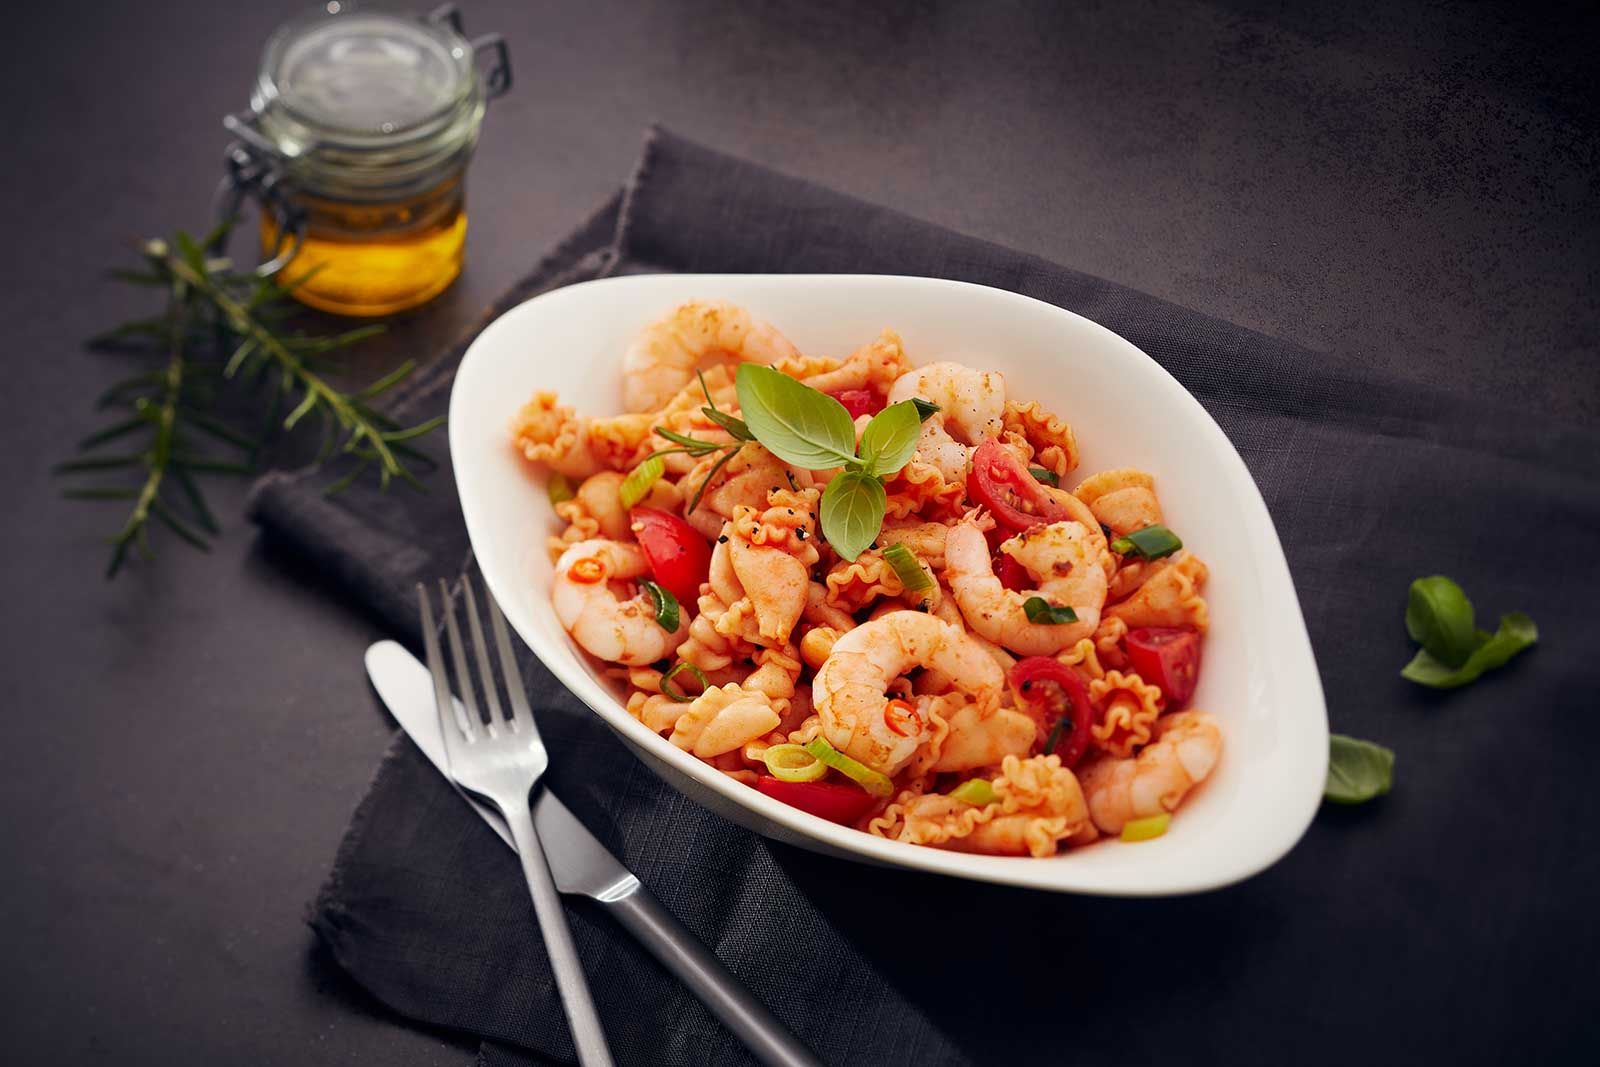
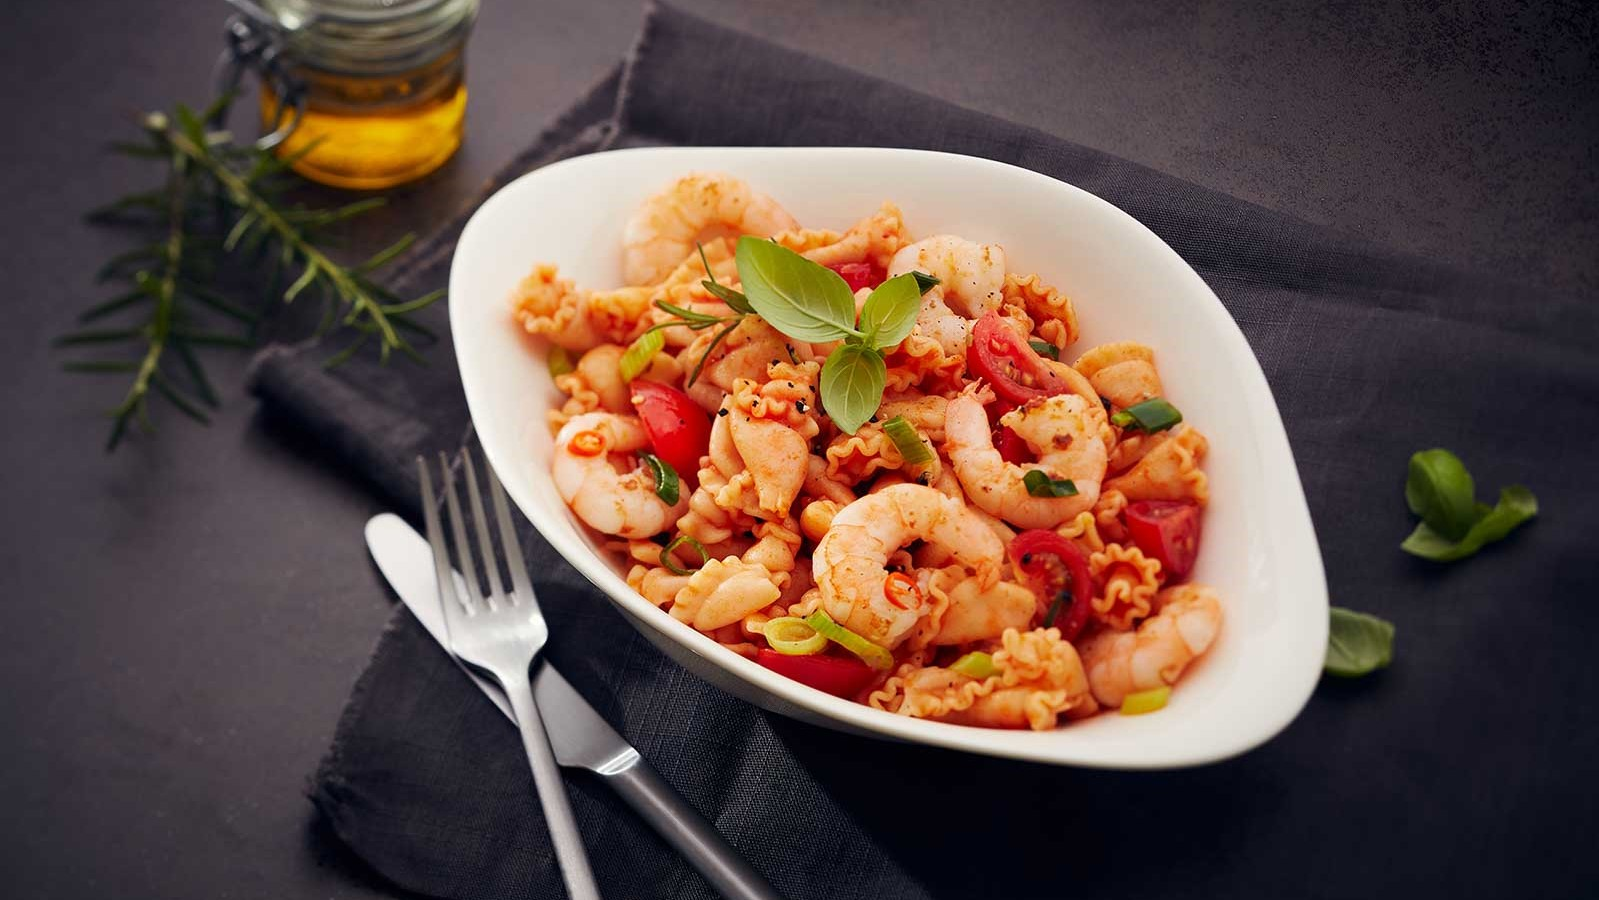
karussell lisatud

diff --git a/index.html b/index.html
@@ -3,10 +3,12 @@
     <head>
         <meta charset="utf-8">
         <meta name="viewport" content="width=device-width, initial-scale=1">
-        <link href="https://cdnjs.cloudflare.com/ajax/libs/font-awesome/6.0.0/css/all.min.css" rel="stylesheet"/>
+        <link href="https://cdnjs.cloudflare.com/ajax/libs/font-awesome/6.0.0/css/all.min.css" rel="stylesheet"/> 
         <link href="https://cdn.jsdelivr.net/npm/bootstrap@5.1.3/dist/css/bootstrap.min.css" rel="stylesheet" integrity="sha384-1BmE4kWBq78iYhFldvKuhfTAU6auU8tT94WrHftjDbrCEXSU1oBoqyl2QvZ6jIW3" crossorigin="anonymous">
+        <link rel="stylesheet" href="style.css">
         <script src="https://cdn.jsdelivr.net/npm/bootstrap@5.1.3/dist/js/bootstrap.bundle.min.js" integrity="sha384-ka7Sk0Gln4gmtz2MlQnikT1wXgYsOg+OMhuP+IlRH9sENBO0LRn5q+8nbTov4+1p" crossorigin="anonymous"></script>
     </head>
+    <body>
         <!--Ülemine nav, on 
             väiksel ekraanil peidetud-->
         <header class="p-1 bg-dark text-white  d-none d-lg-block">
@@ -66,26 +68,48 @@
         </header>
 
         <!--karusell-->
-        <div id="carouselExampleControls" class="carousel slide" data-ride="carousel">
+        <div id="myCarousel" class="carousel slide" data-bs-ride="carousel">
+
             <div class="carousel-inner">
               <div class="carousel-item active">
-                <img class="d-block w-100" src="pildid/Pasta-Gamberetti-Low-Res.jpg" alt="First slide">
+                <img class="bd-placeholder-img" width="100%" height="100%" src="pildid/kevadised_pakkumised.png" aria-hidden="true" preserveAspectRatio="xMidYMid slice" focusable="false"><rect width="100%" height="100%" fill="#777"/></img>
+        
+                <div class="container">
+                  <div class="carousel-caption text-start">
+                    <h2>Kevadised<br />uudisroad on<br />kohal</h2>
+                    <p><a class="btn btn-lg btn-primary" href="#">Vaata lähemalt</a></p>
+                  </div>
+                </div>
               </div>
+
               <div class="carousel-item">
-                <img class="d-block w-100" src="..." alt="Second slide">
-              </div>
-              <div class="carousel-item">
-                <img class="d-block w-100" src="..." alt="Third slide">
+                <img class="bd-placeholder-img" width="100%" height="100%" src="pildid/Pasta-Gamberetti-Low-Res.jpg" aria-hidden="true" preserveAspectRatio="xMidYMid slice" focusable="false"><rect width="100%" height="100%" fill="#777"/></img>
+        
+                <div class="container">
+                  <div class="carousel-caption text-start">
+                    <h2>Vapiano-<br />parima<br />pasta<br />kodu</h2>
+                    <p><a class="btn btn-lg btn-primary" href="#">Vaata menüüd</a></p>
+                  </div>
+                </div>
               </div>
             </div>
-            <a class="carousel-control-prev" href="#carouselExampleControls" role="button" data-slide="prev">
+            <button class="carousel-control-prev" type="button" data-bs-target="#myCarousel" data-bs-slide="prev">
               <span class="carousel-control-prev-icon" aria-hidden="true"></span>
-              <span class="sr-only">Previous</span>
-            </a>
-            <a class="carousel-control-next" href="#carouselExampleControls" role="button" data-slide="next">
+              <span class="visually-hidden">Eelmine</span>
+            </button>
+            <button class="carousel-control-next" type="button" data-bs-target="#myCarousel" data-bs-slide="next">
               <span class="carousel-control-next-icon" aria-hidden="true"></span>
-              <span class="sr-only">Next</span>
-            </a>  
+              <span class="visually-hidden">Järgmine</span>
+            </button>
+          </div>
+
+    <!--oliivid-->
+    <div class="container">
+        <div class="row">
+            <div class="col-md-3 md col-xs-12"><img src="pildid/Olive1.png" class="img-fluid"></div>
+            <div class="col-md-6 col-xs-12 text-center align-self-center"><h3>"Chi va piano, va sano e va lontano."</h3></div>
+            <div class="col-md-3 col-xs-12"><img src="pildid/Olive2.png" class="img-fluid"></div>
+        </div>
     </div>
 </body>
 </html>

diff --git a/style.css b/style.css
@@ -1,0 +1,17 @@
+h3 {
+    color: #272726;
+    font-family: "Montez", Sans-serif;
+    font-size: 3.5em;
+    font-weight: 500;
+    text-transform: none;
+    line-height: 0.8em;
+    letter-spacing: 1px;
+    font-style: italic;
+}
+
+.btn-primary {
+    background-color: #E6BE2A;
+    border-color: #E6BE2A;
+    color: #3B3830;
+}
+
